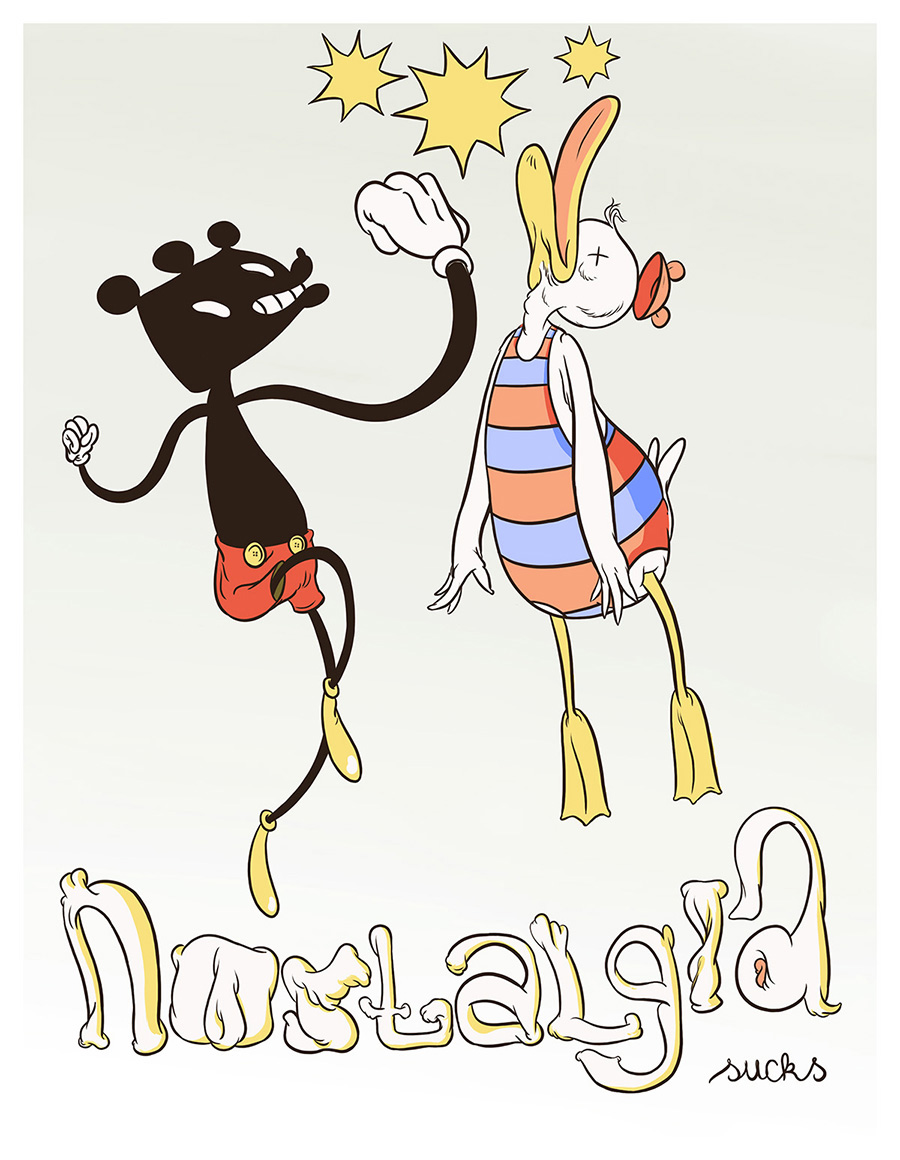
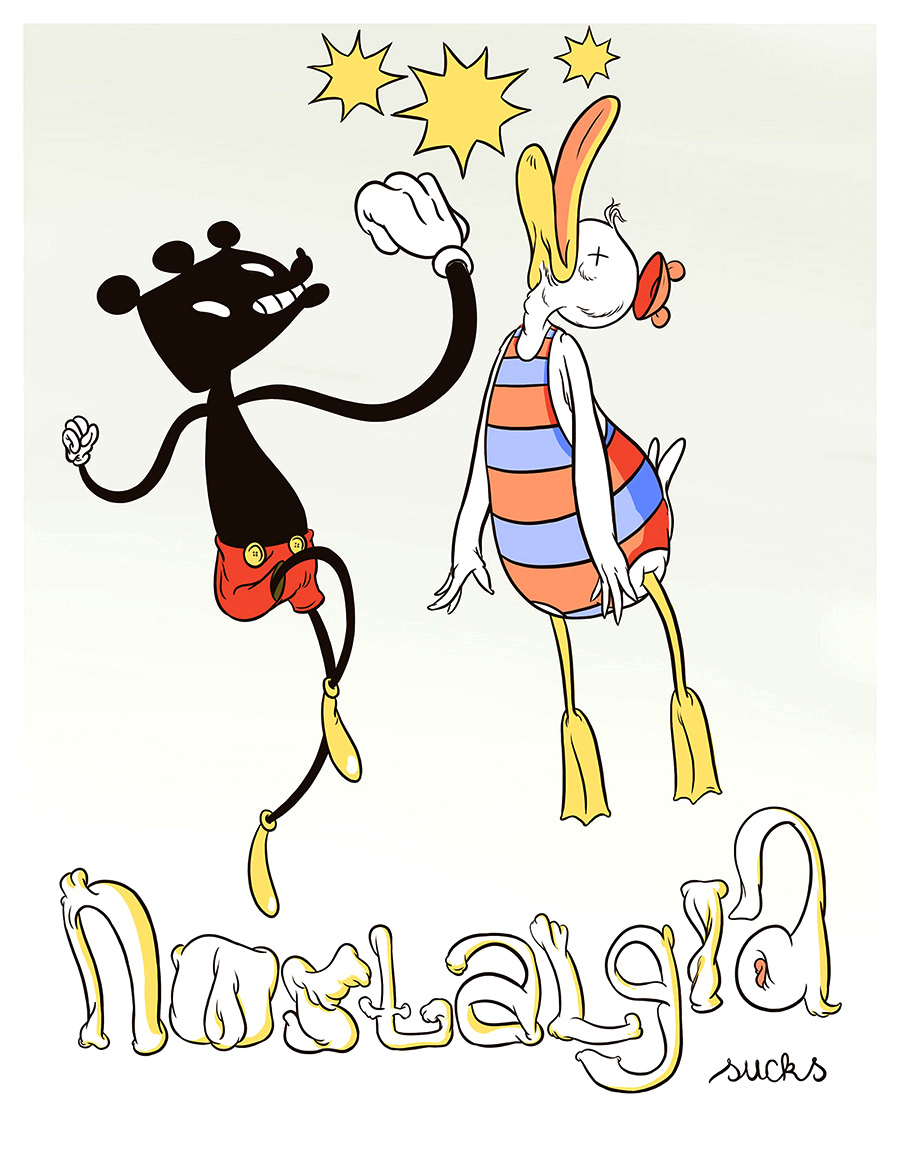
Updating mouse page: my true feelings for nostalgia needed to be clarified. Pushed levels on thumb too.

diff --git a/mouse.html b/mouse.html
@@ -36,10 +36,10 @@
 			</div>
 	</header>
 	<div id="gallery">
+			<div class="desc">I'm actually very fond of nostalgia.</div>
 			<div class="img">
-				<img src="images/hoopla-nostalgia.jpg" alt="Donald uppercut" /></a>
+				<img src="images/hoopla-nostalgia-t.jpg" alt="Donald Duck uppercut" /></a>
 				<img src="images/hoopaloo.jpg" alt="Hoopaloo" /></a>
-				<img src="images/hoopla-nostalgia-t.jpg" alt="Nostalgia" /></a>
 			</div>
 	</div>
 	<div id="thumb-gallery">
